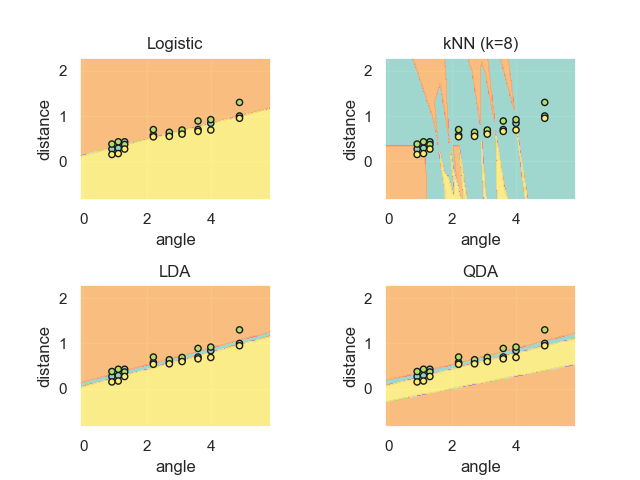
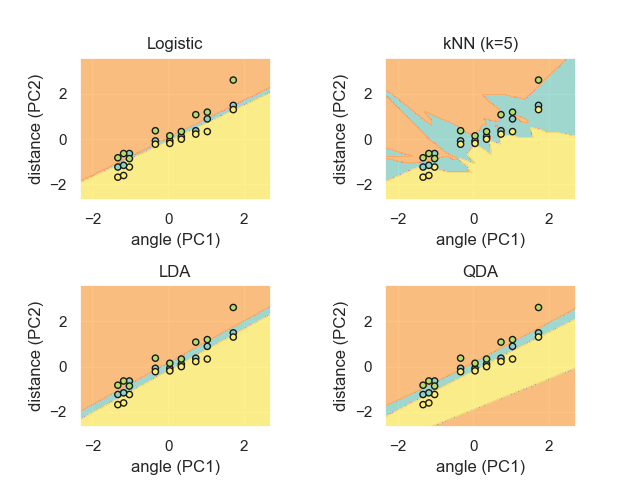
Added Digits dataset

diff --git a/BigData/project1.py b/BigData/project1.py
@@ -4,9 +4,11 @@ import sklearn.linear_model as kit
 import sklearn.neighbors as kNN
 import sklearn.discriminant_analysis as disc
 import sklearn.model_selection as mod
+from sklearn import preprocessing
 import matplotlib.pyplot as plt
 from matplotlib import cm
 import seaborn as sns
+from sklearn.datasets import load_digits
 
 def make_meshgrid(x, y, h=.02):
     """Create a mesh of points to plot in
@@ -50,8 +52,10 @@ def plot_contours(ax, clf, xx, yy, **params):
 
 # /datasets/iris.csv    Petal.Length, Petal.Width | Species
 # /DAAG/toycars.csv     angle, distance           | car
-# /vcd/Hitters.csv      Errors, Putouts           | Positions
+# /DAAG/leafshape.csv   bladelen, bladewid        | location    
 # /vcd/Suicide.csv      age, method               | sex
+# /datasets/OrchardSprays.csv   decrease, rowpos      | treatment
+# /DAAG/ais.csv         rcc, wt                   | sport
 
 ## Variables
 dataset = "/DAAG/toycars.csv"
@@ -61,19 +65,19 @@ expl = ['angle', 'distance']
 tar = ['car']
 
 X = df[expl].values.reshape(len(df), len(expl))
+X = preprocessing.scale(X)
 
 if type(df[tar].values[0][0]) == np.int64:
     Y = np.ravel(df[tar].values)
 else:
     Y = pd.factorize(np.ravel(df[tar].values))[0]
 
-
 # Logistic regression
-log_reg = kit.LogisticRegression(random_state=0).fit(X, Y)
+log_reg = kit.LogisticRegression().fit(X, Y)
 log_test = kit.LogisticRegression()
 
 # k-neighbors
-k = 8
+k = 5
 kNN_reg = kNN.KNeighborsClassifier(n_neighbors=k)
 kNN_reg.fit(X, Y)
 kNN_test = kNN.KNeighborsClassifier(n_neighbors=k)
@@ -110,11 +114,28 @@ models = [log_reg, kNN_reg, lda_reg, qda_reg]
 for model, title, ax in zip(models, titles, sub.flatten()):
     plot_contours(ax, model, xx, yy, cmap=cm.Set3, alpha=0.8)
     ax.scatter(X[:,0], X[:,1], c=Y, cmap=cm.Set3, s=20, edgecolors='k')
-    ax.set_xlabel(expl[0])
-    ax.set_ylabel(expl[1])
+    ax.set_xlabel(expl[0] + " (PC1)")
+    ax.set_ylabel(expl[1] + " (PC2)")
     ax.set_title(title)
 
 filename = dataset.replace('.csv', '').split('/')[-1] + ".png"
 plt.savefig("Figures/" + filename)
 print(filename)
 plt.show()
+
+digits = load_digits()
+X = preprocessing.scale(digits.data)
+Y = digits.target
+
+cv = mod.StratifiedKFold(n_splits=5, shuffle=True)
+log_result = mod.cross_validate(log_test, X, Y, cv=cv)
+kNN_result = mod.cross_validate(kNN_test, X, Y, cv=cv)
+lda_result = mod.cross_validate(lda_test, X, Y, cv=cv)
+qda_result = mod.cross_validate(qda_test, X, Y, cv=cv)
+
+print(log_result['test_score'].mean())
+print(kNN_result['test_score'].mean())
+print(lda_result['test_score'].mean())
+print(qda_result['test_score'].mean())
+
+print(X.shape)
